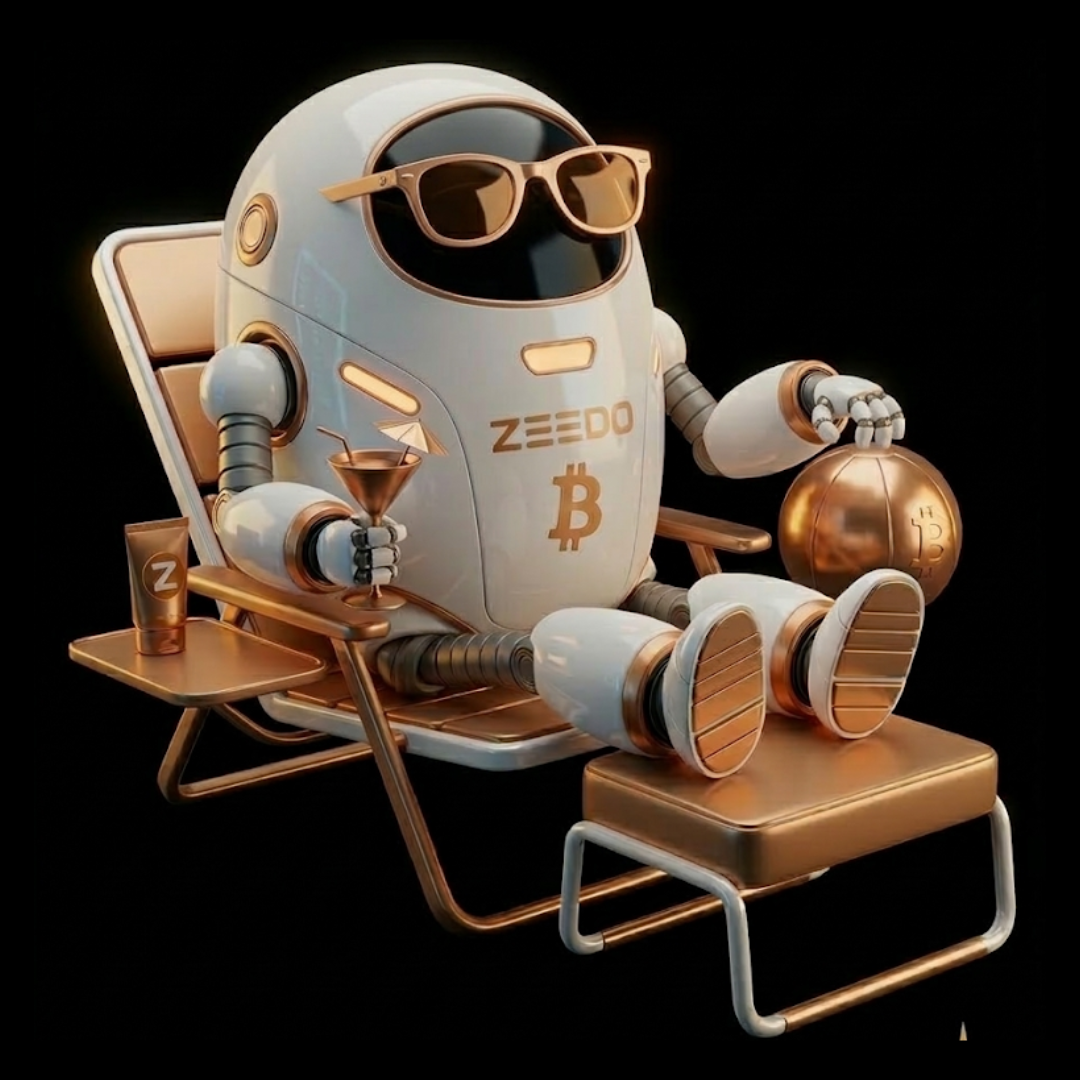
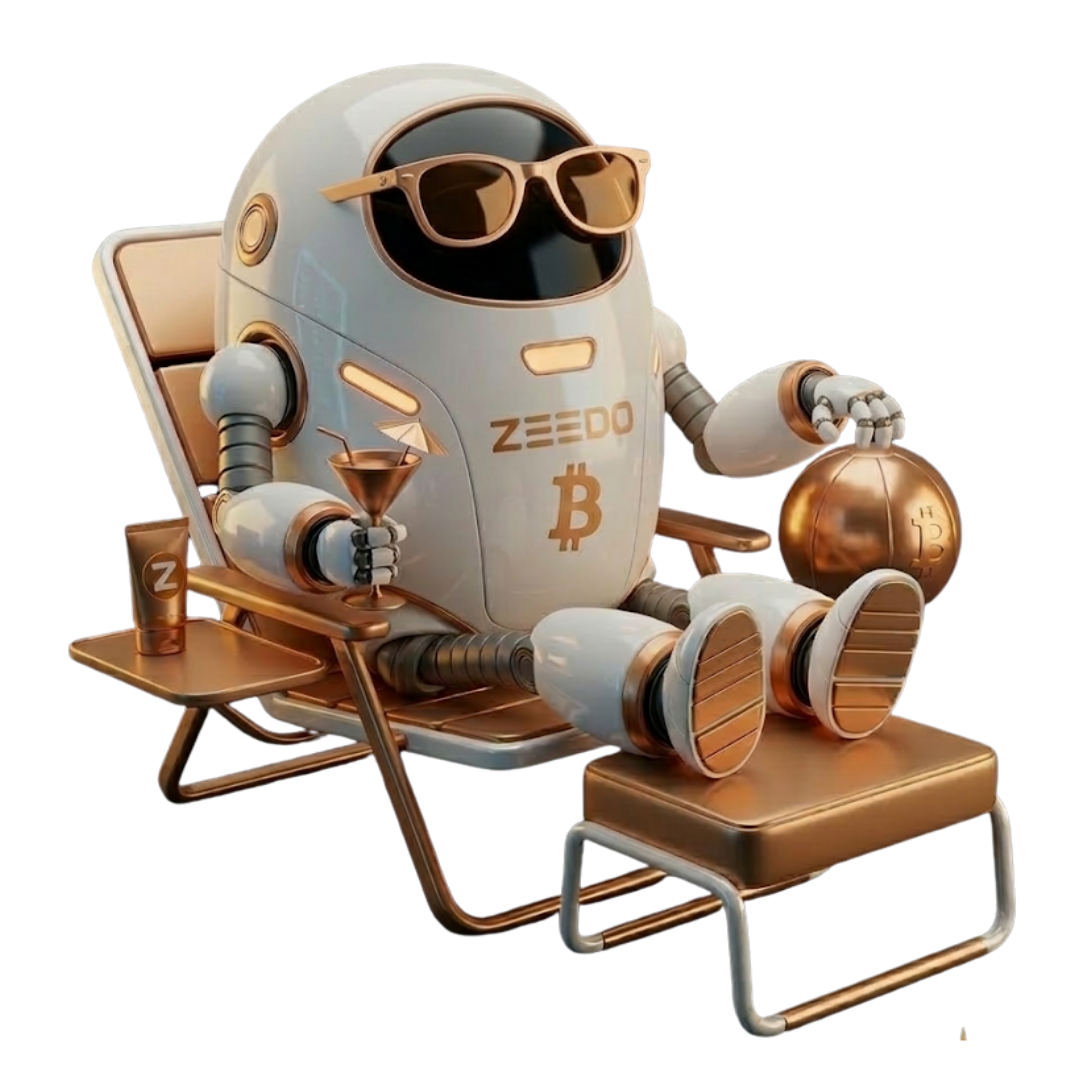
ajustes básicos imagens sem fundo

diff --git a/frontend/app/bot/page.tsx b/frontend/app/bot/page.tsx
@@ -224,7 +224,8 @@ export default function BotPage() {
 
       <main>
         {/* Hero */}
-        <section className="relative overflow-hidden px-4 py-16 sm:py-24 bg-[#000000]">
+        <section className="relative overflow-hidden px-4 py-16 sm:py-24">
+          <div className="absolute inset-0 bg-gradient-to-b from-zeedo-orange/5 to-transparent dark:from-zeedo-orange/10" />
           <div className="relative mx-auto max-w-6xl">
             <div className="grid items-center gap-8 lg:grid-cols-2 lg:gap-12">
               <motion.div
@@ -305,9 +306,9 @@ export default function BotPage() {
                     <Image
                       src="/Zeedos/2.png"
                       alt="Falta de tempo"
-                      width={56}
-                      height={56}
-                      className="h-14 w-14 object-contain"
+                      width={64}
+                      height={64}
+                      className="h-16 w-16 object-contain"
                     />
                     <span className="text-xs font-semibold uppercase tracking-wide text-zeedo-orange">FALTA DE TEMPO</span>
                   </div>
@@ -315,9 +316,9 @@ export default function BotPage() {
                     <Image
                       src="/Zeedos/3.png"
                       alt="Emocional"
-                      width={56}
-                      height={56}
-                      className="h-14 w-14 object-contain"
+                      width={64}
+                      height={64}
+                      className="h-16 w-16 object-contain"
                     />
                     <span className="text-xs font-semibold uppercase tracking-wide text-zeedo-orange">EMOCIONAL</span>
                   </div>
@@ -354,7 +355,7 @@ export default function BotPage() {
 
         {/* Solução */}
         <motion.section
-          className="relative overflow-hidden border-t border-zeedo-orange/20 bg-[#000000] px-4 py-16 sm:py-24"
+          className="relative overflow-hidden border-t border-zeedo-orange/20 bg-zeedo-black/5 dark:bg-white/5 px-4 py-16 sm:py-24"
           initial="hidden"
           whileInView="visible"
           viewport={{ once: true, margin: "-80px" }}
@@ -436,7 +437,7 @@ export default function BotPage() {
 
         {/* Como funciona */}
         <motion.section
-          className="border-t border-zeedo-orange/20 px-4 py-16 sm:py-24 bg-[#111111]"
+          className="border-t border-zeedo-orange/20 px-4 py-16 sm:py-24"
           initial="hidden"
           whileInView="visible"
           viewport={{ once: true, margin: "-80px" }}
@@ -655,7 +656,7 @@ export default function BotPage() {
 
         {/* Prova social */}
         <motion.section
-          className="border-t border-zeedo-orange/20 px-4 py-16 sm:py-24 bg-[#111111]"
+          className="border-t border-zeedo-orange/20 px-4 py-16 sm:py-24"
           initial="hidden"
           whileInView="visible"
           viewport={{ once: true, margin: "-80px" }}

diff --git a/frontend/app/acesso-antecipado/page.tsx b/frontend/app/acesso-antecipado/page.tsx
@@ -406,7 +406,7 @@ export default function AcessoAntecipadoPage() {
 
         {/* Solução */}
         <motion.section
-          className="relative overflow-hidden border-t border-zeedo-orange/20 bg-[#000000] px-4 py-16 sm:py-24"
+          className="relative overflow-hidden border-t border-zeedo-orange/20 bg-zeedo-black/5 dark:bg-white/5 px-4 py-16 sm:py-24"
           initial="hidden"
           whileInView="visible"
           viewport={{ once: true, margin: "-80px" }}
